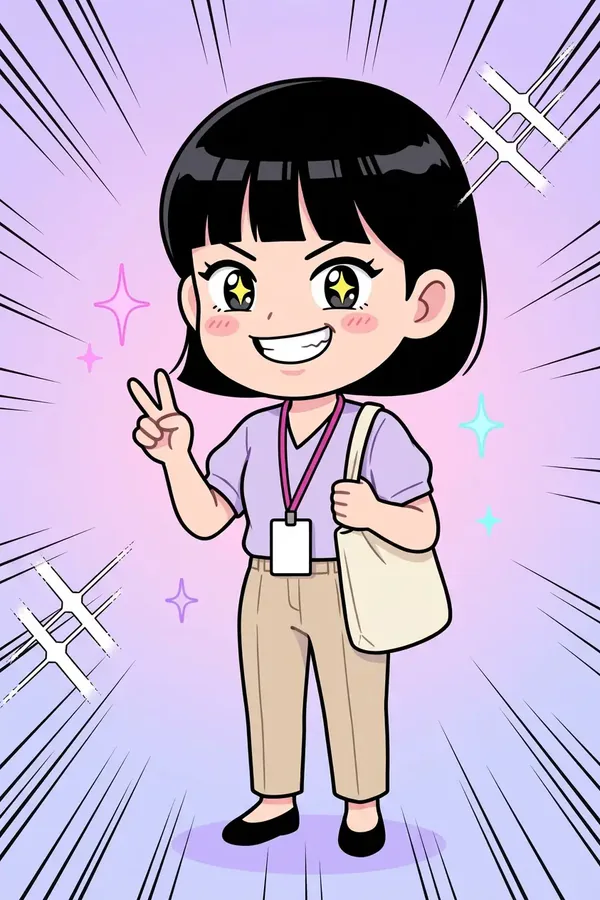
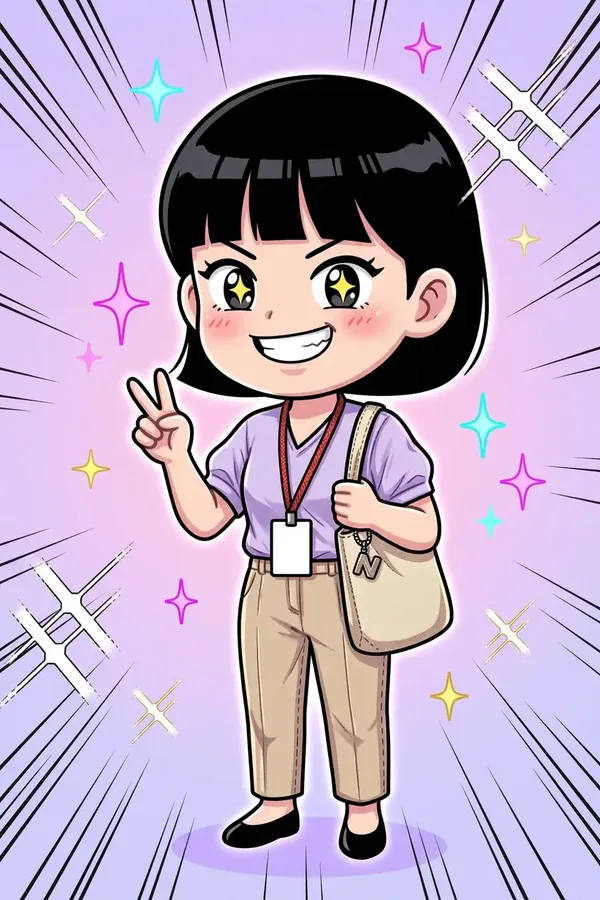
art(office): two new heroes 고도약/유행운 (Higgsfield designs + Ludo Forge cycles), upgraded portraits, 4-hero title

diff --git a/public-office/art/SOURCES.md b/public-office/art/SOURCES.md
@@ -235,3 +235,34 @@ Cut out locally, then placed so its opaque box has the same height, bottom and c
 | `hero-cat-hit4.webp` | $STYLE. Same exact character, outfit, colors, proportions, size and line style as the reference image. Strict side profile facing RIGHT exactly like the reference: nose, face and eyes point to the RIGHT edge of the image; never turn toward the viewer, never show the face front-on, never face left. Single character only, full body head to toe, pure flat white background, no ground, no shadow, no speed lines, no objects. Recovering from the stumble: regaining balance and leaning forward to the right again ready to run, slightly dazed face in profile, one small star fading above the head. |
 | `hero-kid-hit2.webp` (redo) | $STYLE. Same exact character, outfit, colors, proportions, size and line style as the reference image, INCLUDING his mint-green necktie, round glasses, orange backpack and his orange-and-white sneakers (exactly the reference shoe colors). Strict side profile facing RIGHT exactly like the reference: nose, face and eyes point to the RIGHT edge of the image; never turn toward the viewer, never face left. Single character only, full body head to toe, pure flat white background, no ground, no shadow, no speed lines, no objects. Comic hit reaction: jolted backward mid-run, head snapped back slightly, mouth open in a surprised 'oof', a sweat drop, arms flung back, still in side profile looking right. |
 | `hero-kid-hit3.webp` (redo) | $STYLE. Same exact character, outfit, colors, proportions, size and line style as the reference image, INCLUDING his mint-green necktie, round glasses, orange backpack and his orange-and-white sneakers (exactly the reference shoe colors). Strict side profile facing RIGHT exactly like the reference: nose, face and eyes point to the RIGHT edge of the image; never turn toward the viewer, never face left. Single character only, full body head to toe, pure flat white background, no ground, no shadow, no speed lines, no objects. Comic dizzy wobble: knees bent and wobbly, torso swaying back, arms out for balance, spiral dizzy eyes behind the glasses, small stars above the head. |
+
+## Four heroes (2026-11-02, branch feat/office-four-heroes)
+
+New heroes `bunny` = 고도약, `robot` = 유행운. Designs: nano_banana_flash with the shipped `hero-kid-run1` / `hero-cat-run1` (on white) as style references. Stills cut out locally (512×640, feet y=639); portraits centre-cropped 2:3 → 600×900; title 9:16 → 1080×1920.
+
+| file | model | prompt |
+|---|---|---|
+| `hero-bunny-run1 (+ Ludo source)` | nano_banana_flash | $STYLE. Match EXACTLY the art style, line weight, coloring, chibi proportions (2.5 heads tall, big head) and running pose of the two reference characters, but draw a NEW different character. Single character only, running in strict side profile facing RIGHT (face and eyes toward the right edge), full body head to toe, pure flat white background, no ground, no shadow, no speed lines, no objects. The new character: a tall lanky young Korean male new hire with noticeably long legs, messy light-brown hair, NO glasses, a loose oversized white shirt untucked with rolled sleeves, a bright orange necktie loosened, khaki pants, white sneakers with orange accents and untied flapping laces, cheerful eager grin. |
+| `hero-robot-run1 (+ Ludo source)` | nano_banana_flash | $STYLE. Match EXACTLY the art style, line weight, coloring, chibi proportions (2.5 heads tall, big head) and running pose of the two reference characters, but draw a NEW different character. Single character only, running in strict side profile facing RIGHT (face and eyes toward the right edge), full body head to toe, pure flat white background, no ground, no shadow, no speed lines, no objects. The new character: a young Korean female office worker with a curly dark-brown bob and a mint-green headband, a small gold four-leaf-clover pin on her chest, a soft mint cardigan over a cream blouse, a mint pleated skirt with white socks and gold-accent flats, blank ID badge on a gold lanyard, lucky bright smile. |
+| `hero-bunny-jump` | nano_banana_flash | $STYLE. Same exact character, outfit, colors, proportions, size and line style as the reference image. Single character only, full body head to toe, pure flat white background, no ground, no shadow, no speed lines, no objects. Strict side profile facing RIGHT (face and eyes toward the right edge), never toward the viewer. Gliding jump in mid-air: both arms raised up and slightly forward, knees lifted, joyful face, small sparkles. |
+| `hero-bunny-hit` | nano_banana_flash | $STYLE. Same exact character, outfit, colors, proportions, size and line style as the reference image. Single character only, full body head to toe, pure flat white background, no ground, no shadow, no speed lines, no objects. Strict side profile facing RIGHT (face and eyes toward the right edge), never toward the viewer. Comic dizzy stumble: leaning back off balance, one foot lifted, arms flailing, spiral dizzy eyes, little stars above the head. |
+| `hero-bunny-win` | nano_banana_flash | $STYLE. Same exact character, outfit, colors, proportions, size and line style as the reference image. Single character only, full body head to toe, pure flat white background, no ground, no shadow, no speed lines, no objects. Facing the viewer, victory pose with both arms raised high, huge happy open-mouth smile, sparkles around, jumping slightly. |
+| `op-bunny` | nano_banana_flash | $STYLE. Portrait of exactly the character in the reference image, full body, confident cheerful signature pose, on a soft pastel gradient background (peach-orange) with neon sparkle accents, centered, full body head to toe. |
+| `hero-robot-jump` | nano_banana_flash | $STYLE. Same exact character, outfit, colors, proportions, size and line style as the reference image. Single character only, full body head to toe, pure flat white background, no ground, no shadow, no speed lines, no objects. Strict side profile facing RIGHT (face and eyes toward the right edge), never toward the viewer. Gliding jump in mid-air: both arms raised up and slightly forward, knees lifted, joyful face, small sparkles. |
+| `hero-robot-hit` | nano_banana_flash | $STYLE. Same exact character, outfit, colors, proportions, size and line style as the reference image. Single character only, full body head to toe, pure flat white background, no ground, no shadow, no speed lines, no objects. Strict side profile facing RIGHT (face and eyes toward the right edge), never toward the viewer. Comic dizzy stumble: leaning back off balance, one foot lifted, arms flailing, spiral dizzy eyes, little stars above the head. |
+| `hero-robot-win` | nano_banana_flash | $STYLE. Same exact character, outfit, colors, proportions, size and line style as the reference image. Single character only, full body head to toe, pure flat white background, no ground, no shadow, no speed lines, no objects. Facing the viewer, victory pose with both arms raised high, huge happy open-mouth smile, sparkles around, jumping slightly. |
+| `op-robot` | nano_banana_flash | $STYLE. Portrait of exactly the character in the reference image, full body, confident cheerful signature pose, on a soft pastel gradient background (mint-gold) with neon sparkle accents, centered, full body head to toe. |
+| `op-kid (upgrade; refs: old op-kid + ref-kid2)` | nano_banana_flash | $STYLE. Upgrade this character portrait: keep exactly the same character identity, face, hair, outfit colors, the same 2:3 framing and pastel gradient background, but add richer outfit detail (fabric folds, stitched seams, small accessories), a more expressive confident face, crisp manga sparkle accents and subtle rim light. Full body head to toe, centered. No text. |
+| `op-cat (upgrade; refs: old op-cat + ref-cat2)` | nano_banana_flash | $STYLE. Upgrade this character portrait: keep exactly the same character identity, face, hair, outfit colors, the same 2:3 framing and pastel gradient background, but add richer outfit detail (fabric folds, stitched seams, small accessories), a more expressive confident face, crisp manga sparkle accents and subtle rim light. Full body head to toe, centered. No text. |
+| `title (4-hero key art; ref: lineup of the 4 run references; 3rd attempt)` | nano_banana_flash | $STYLE. Vertical 9:16 title key art. EXACTLY FOUR chibi heroes (2.5 heads tall, big heads) copied exactly from the reference lineup, left to right: (1) boy with round glasses, white short-sleeve shirt, mint-green necktie, navy slacks, orange backpack; (2) girl with glossy black bob, lavender blouse, hot-pink lanyard badge, BEIGE SLACKS (not a skirt), cream eco bag; (3) tall lanky boy with light-brown messy hair, loose white shirt, loose orange necktie, khaki pants, untied laces; (4) girl with curly brown bob and MINT HEADBAND, mint cardigan, mint pleated skirt, gold clover pin. All four sprint side by side toward the camera down a warm sunset office corridor, full bodies visible, huge determined happy faces. Behind: analog wall clock with hands near 6 o'clock, tiny comic superiors chasing far back, flying blank papers, speed lines. Top third: smooth pastel sky gradient blending seamlessly, empty for a logo. |
+
+Ludo `animateSprite`, model **forge** (input = `hero-<id>-run1.webp`), one shared transform per animation (`norm.py`, frame-1 height 615 px, feet y=639); jump pinned to the floor and scaled so the tallest pose fits.
+
+| files | duration | motion prompt | frames used |
+|---|---|---|---|
+| `hero-{bunny,robot}-run1..8` | 2 s, loop | running in place to the right, side-view looping run cycle | 1,3,…,15 (bunny flagged bad_loop by Ludo) |
+| `hero-{bunny,robot}-jump1..8` | 2.5 s | hops up in place: bends knees, springs up with knees tucked, lands back on the same spot, side view facing right | 1,3,5,7,10,12,14,16 (pinned) |
+| `hero-{bunny,robot}-slide1..4` | 2 s | dives into a low feet-first slide to the right and holds it, leaning back near the floor, side view facing right | 1,6,11,16 |
+| `hero-bunny-hit1..4` / `hero-robot-hit1..4` | 2 s | stumbles backward dizzily while still facing right in side view, wobbles, then catches balance | 1,3,5,7 / 2,5,8,11 (later frames turn) |
+
+Every shipped frame was inspected for facing: all right-facing.
